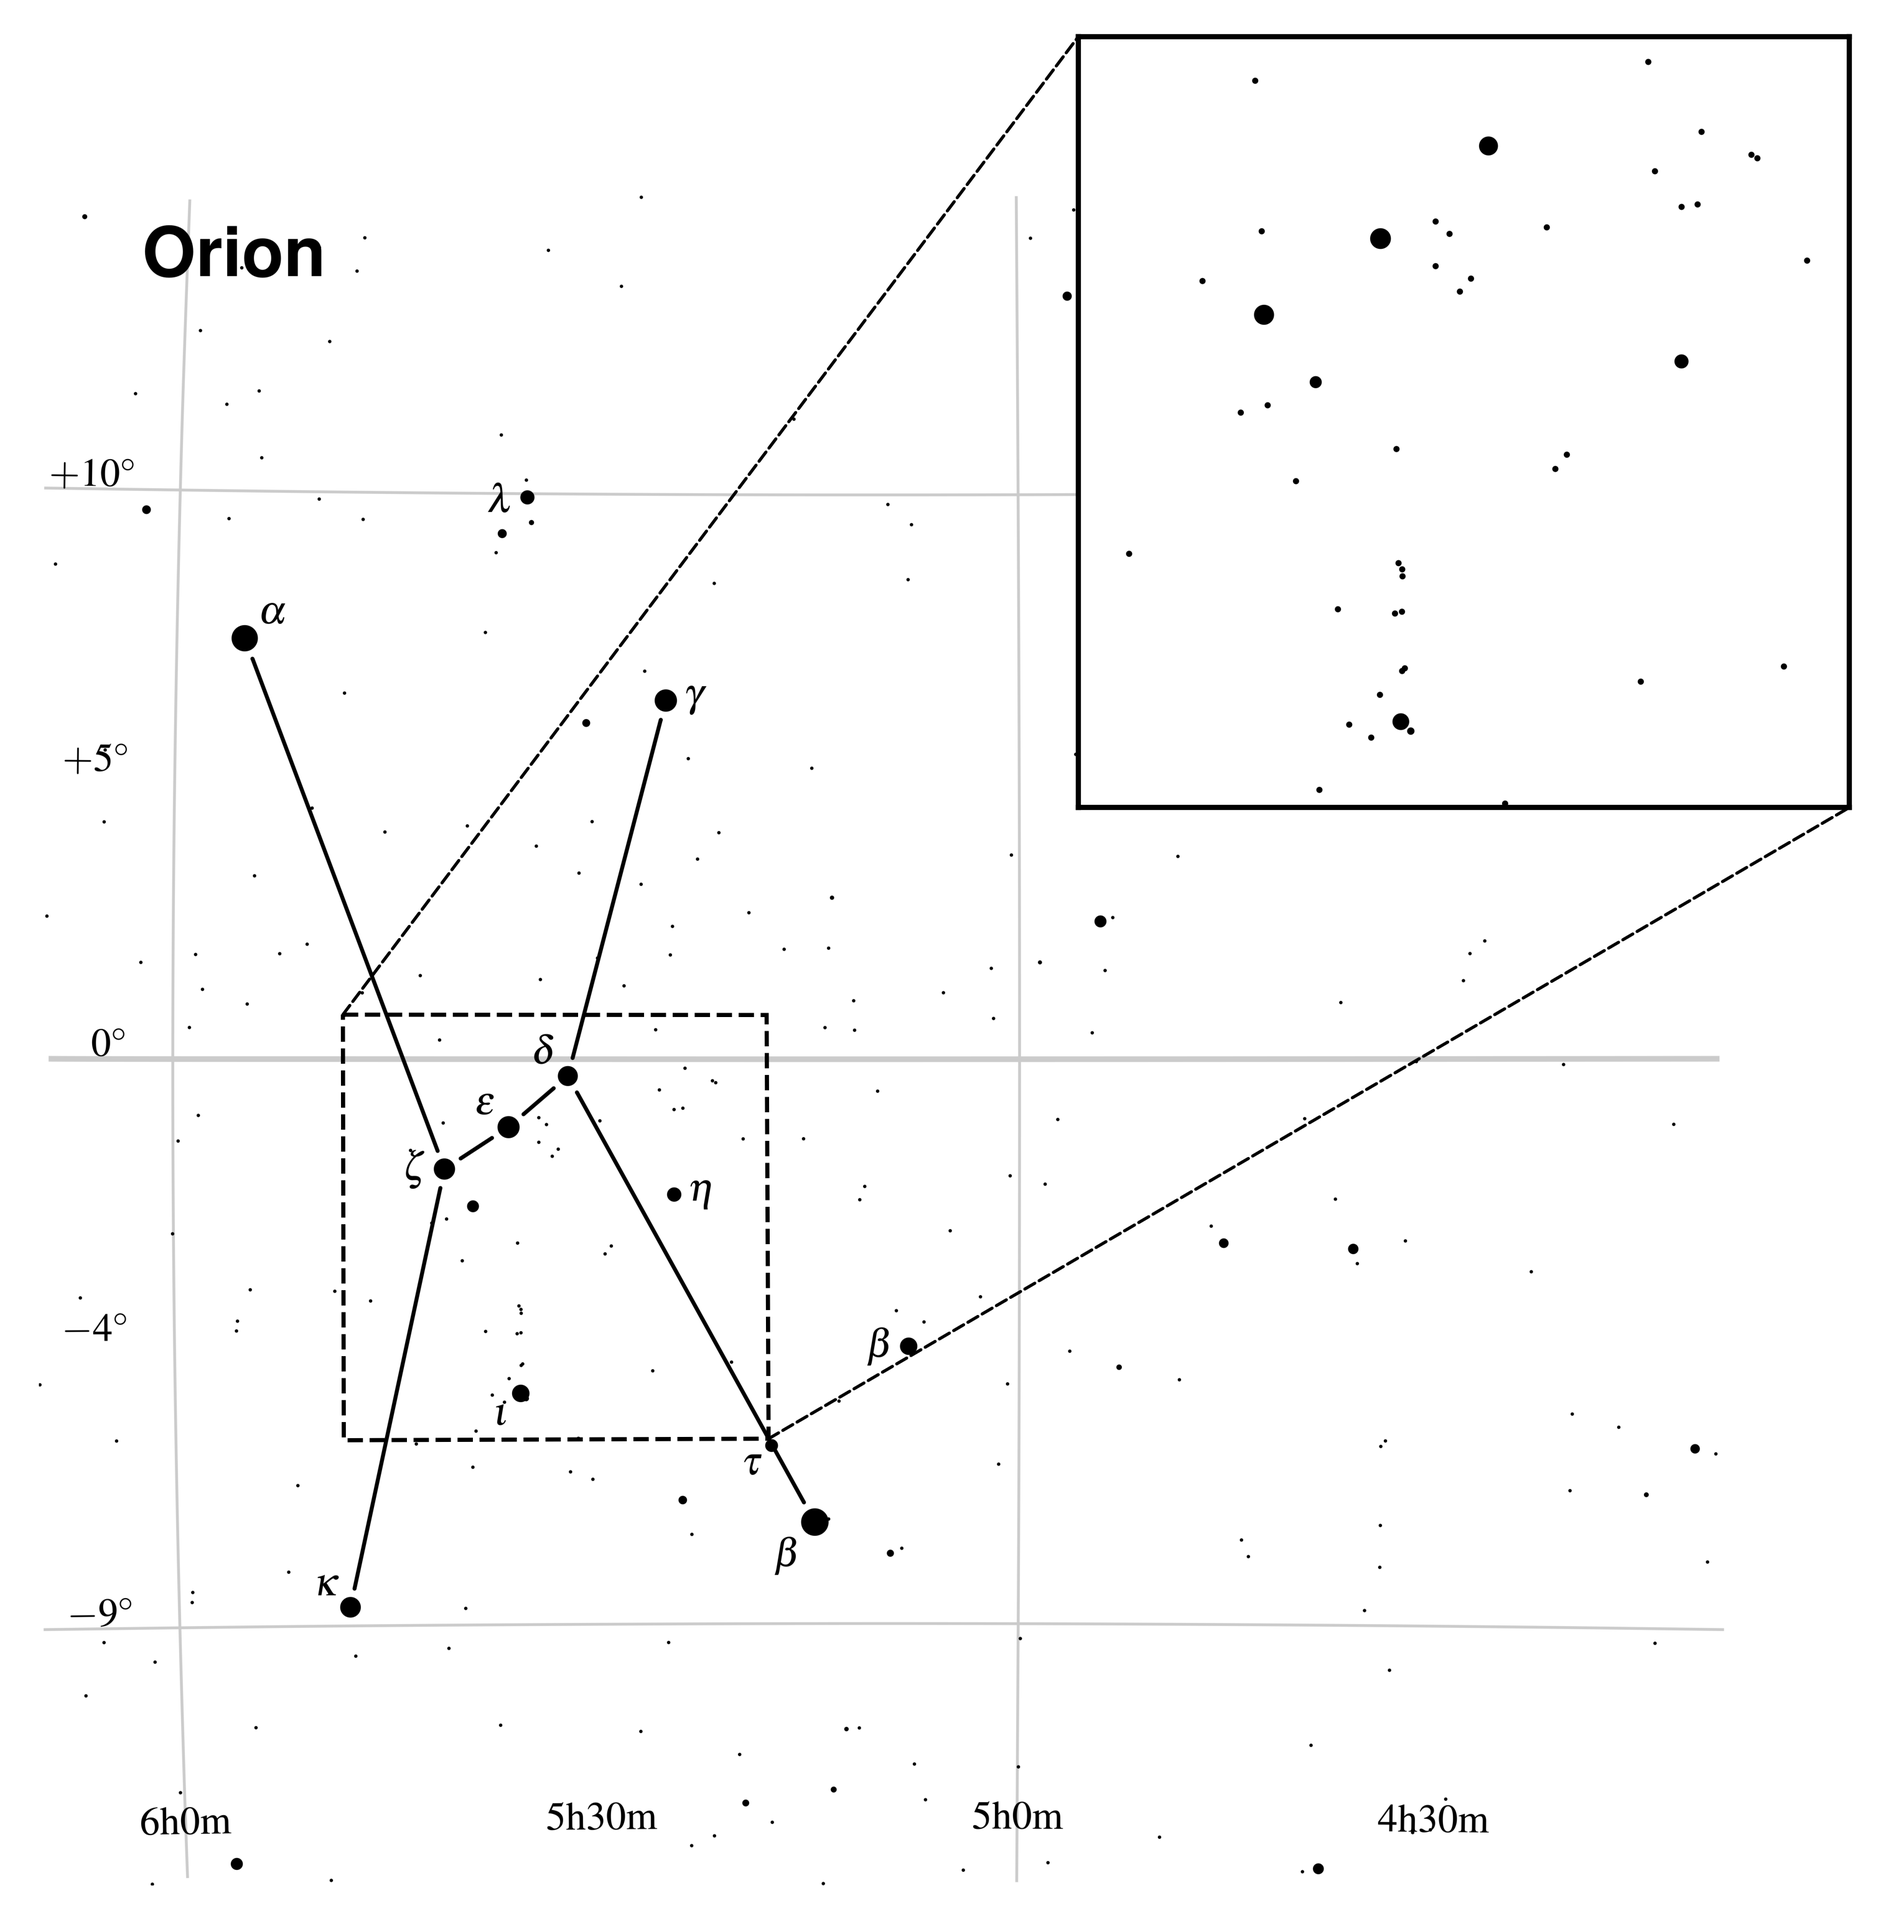
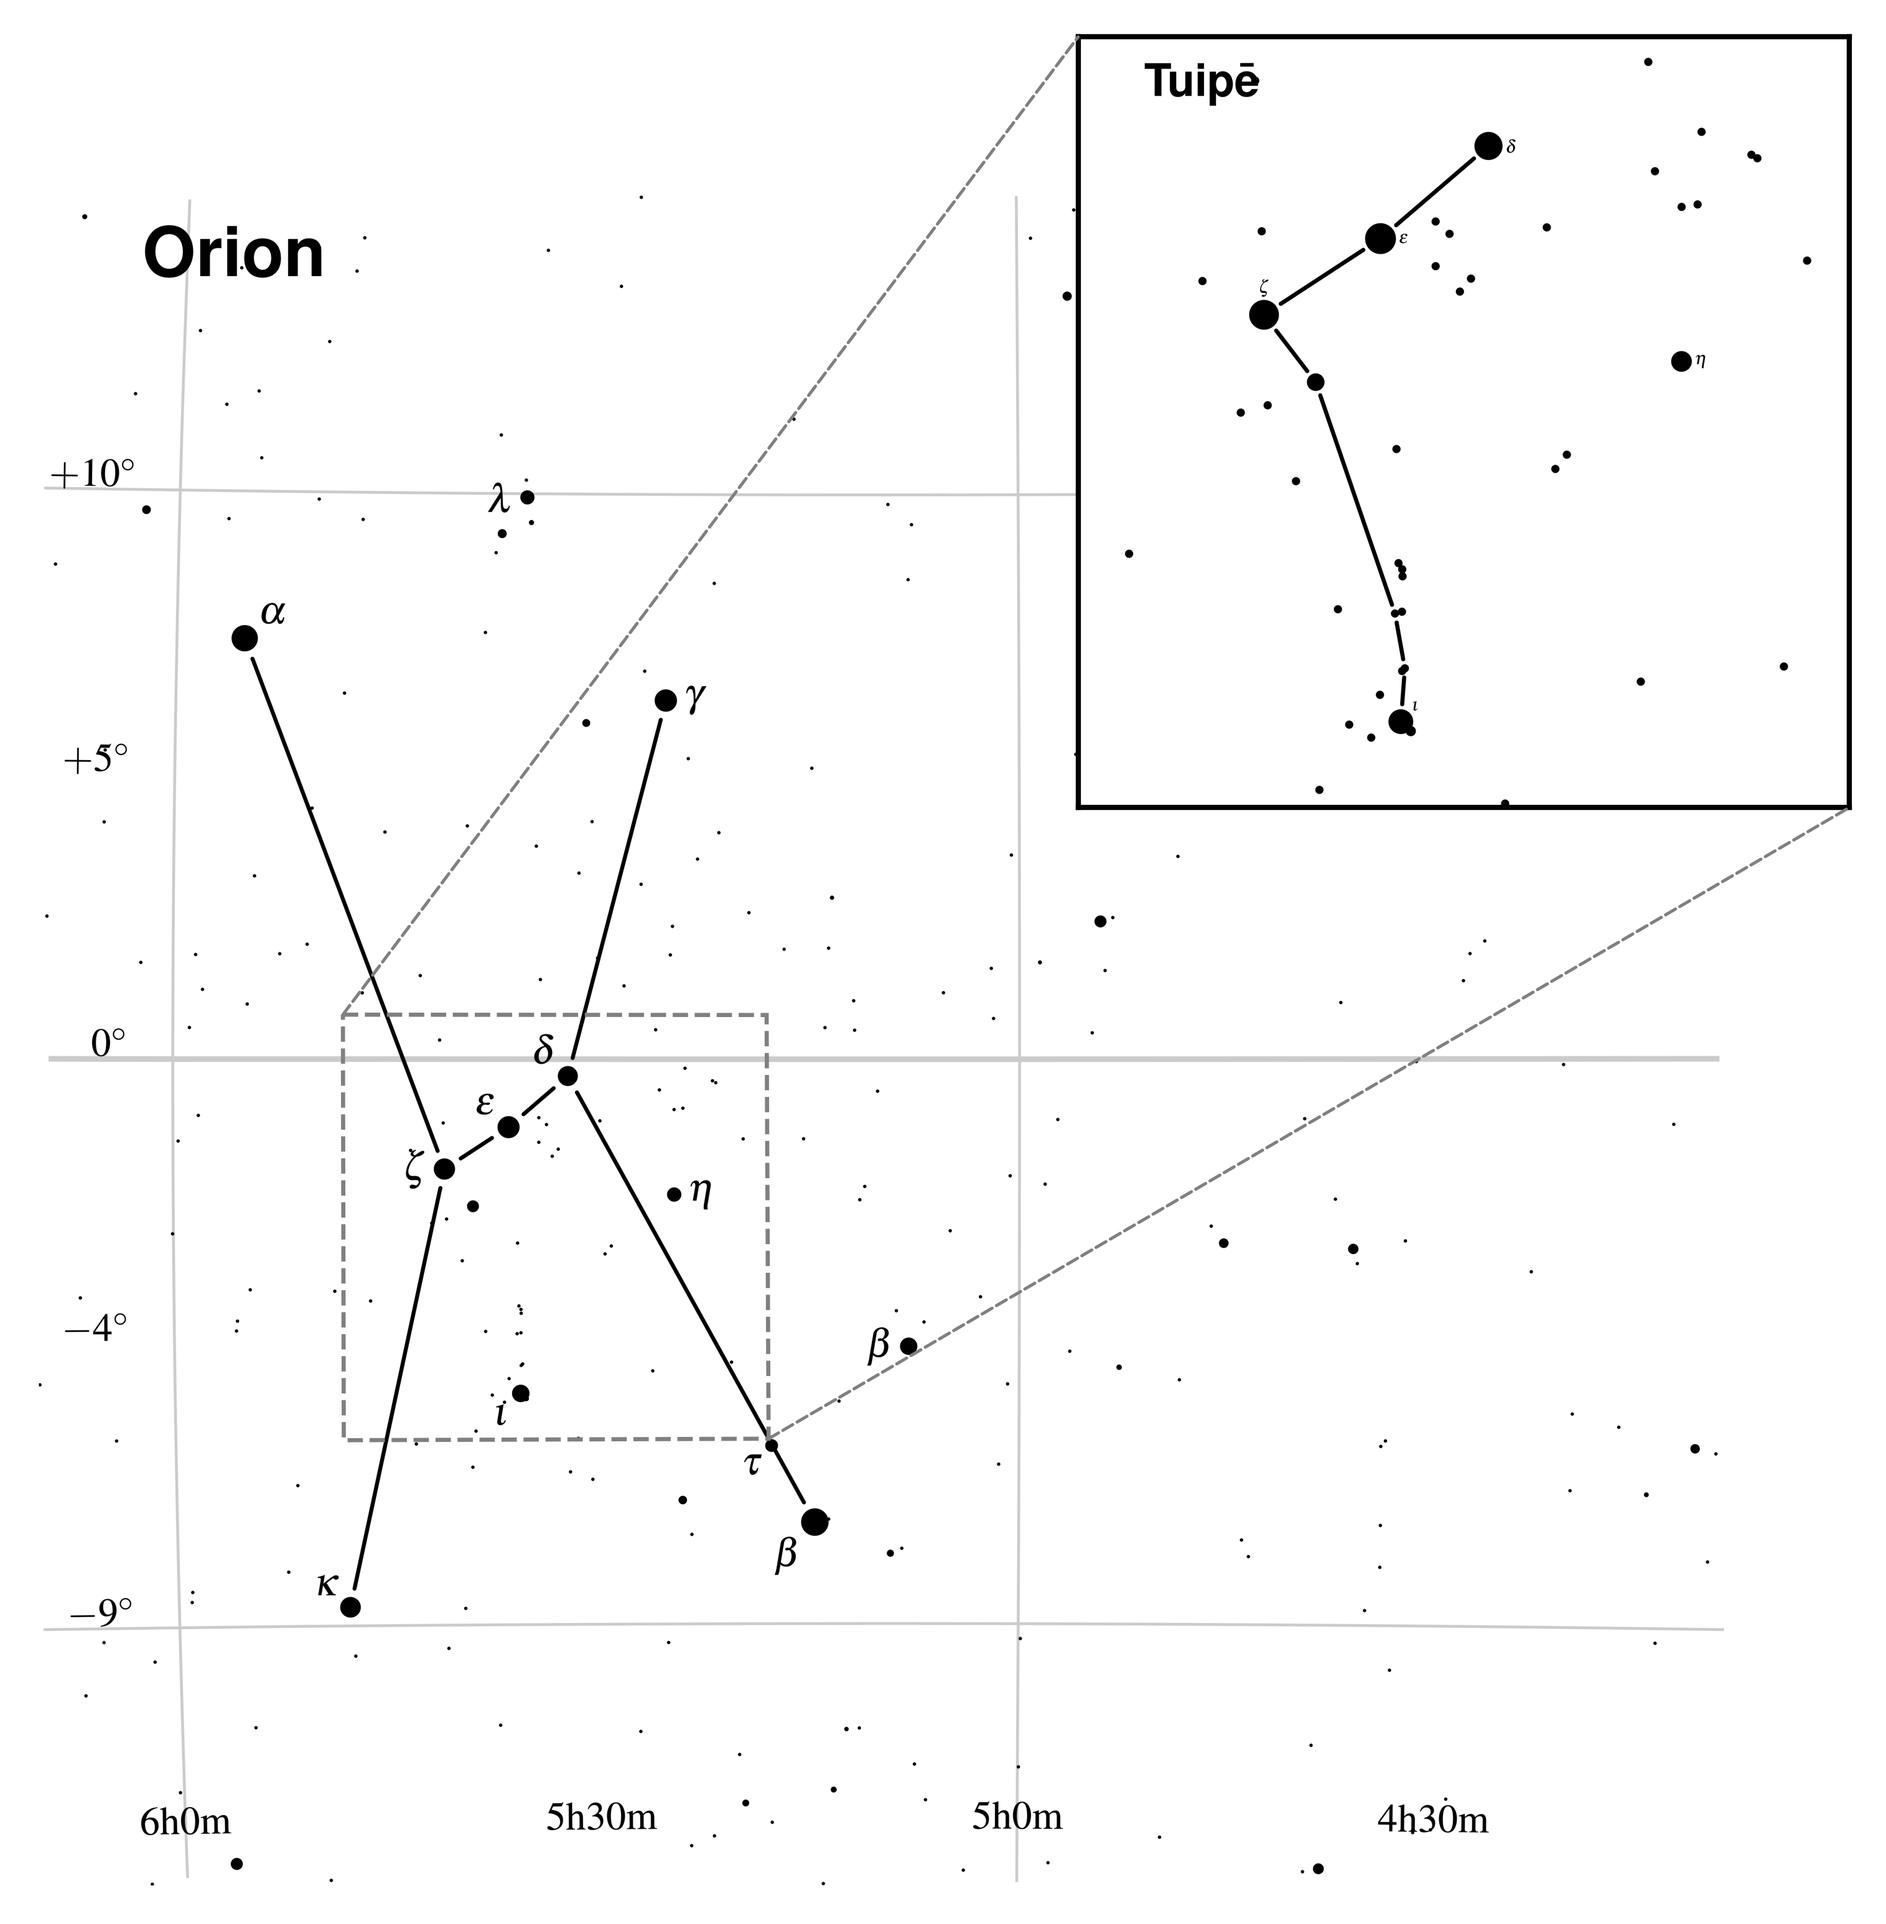
labels: scritp to print label suitable to \Huge for indig consts

diff --git a/scripts/upd_label_coords.py b/scripts/upd_label_coords.py
@@ -1,81 +1,115 @@
-import sys
-import re
 import math
+import re
+import sys
 
-def calculate_top_left_coords(pp3_filename, margin_cm=0.8):
-    # Default values in case they aren't explicitly set in the file
-    ra_center = None
-    dec_center = None
-    box_width = None
-    box_height = None
-    grad_per_cm = None
+
+def calculate_top_left_coords(pp3_filename, margin_cm=None):
+    settings = {}
     text_line_found = None
 
-    # Regex patterns to parse pp3 commands
-    ra_pattern = re.compile(r'^\s*set\s+center_rectascension\s+([\d\.-]+)', re.IGNORECASE)
-    dec_pattern = re.compile(r'^\s*set\s+center_declination\s+([\d\.-]+)', re.IGNORECASE)
-    width_pattern = re.compile(r'^\s*set\s+box_width\s+([\d\.-]+)', re.IGNORECASE)
-    height_pattern = re.compile(r'^\s*set\s+box_height\s+([\d\.-]+)', re.IGNORECASE)
-    grad_pattern = re.compile(r'^\s*set\s+grad_per_cm\s+([\d\.-]+)', re.IGNORECASE)
-    text_pattern = re.compile(r'^\s*text\s+(".+?")\s+at\s+[\d\.-]+\s+[\d\.-]+(.*)', re.IGNORECASE)
+    number = r"[+-]?(?:\d+(?:\.\d*)?|\.\d+)"
 
-    with open(pp3_filename, 'r', encoding='utf-8') as f:
-        for line in f:
-            ra_match = ra_pattern.match(line)
-            if ra_match: ra_center = float(ra_match.group(1))
+    setting_patterns = {
+        "center_rectascension": re.compile(
+            rf"^\s*set\s+center_rectascension\s+({number})", re.IGNORECASE
+        ),
+        "center_declination": re.compile(
+            rf"^\s*set\s+center_declination\s+({number})", re.IGNORECASE
+        ),
+        "box_width": re.compile(
+            rf"^\s*set\s+box_width\s+({number})", re.IGNORECASE
+        ),
+        "box_height": re.compile(
+            rf"^\s*set\s+box_height\s+({number})", re.IGNORECASE
+        ),
+        "grad_per_cm": re.compile(
+            rf"^\s*set\s+grad_per_cm\s+({number})", re.IGNORECASE
+        ),
+    }
 
-            dec_match = dec_pattern.match(line)
-            if dec_match: dec_center = float(dec_match.group(1))
+    text_pattern = re.compile(
+        rf'^\s*text\s+("(?:\\.|[^"\\])*")\s+at\s+'
+        rf"{number}\s+{number}(.*)",
+        re.IGNORECASE,
+    )
 
-            width_match = width_pattern.match(line)
-            if width_match: box_width = float(width_match.group(1))
+    with open(pp3_filename, "r", encoding="utf-8") as file:
+        for line in file:
+            for name, pattern in setting_patterns.items():
+                match = pattern.match(line)
+                if match:
+                    settings[name] = float(match.group(1))
 
-            height_match = height_pattern.match(line)
-            if height_match: box_height = float(height_match.group(1))
+            match = text_pattern.match(line)
+            if match:
+                text_line_found = (match.group(1), match.group(2))
 
-            grad_match = grad_pattern.match(line)
-            if grad_match: grad_per_cm = float(grad_match.group(1))
-
-            text_match = text_pattern.match(line)
-            if text_match:
-                text_content = text_match.group(1)
-                remainder = text_match.group(2)
-                text_line_found = (text_content, remainder)
-
-    # Check that all necessary parameters were found
-    params = {'center_rectascension': ra_center, 'center_declination': dec_center, 
-              'box_width': box_width, 'box_height': box_height, 'grad_per_cm': grad_per_cm}
-    missing = [k for k, v in params.items() if v is None]
+    required = (
+        "center_rectascension",
+        "center_declination",
+        "box_width",
+        "box_height",
+        "grad_per_cm",
+    )
+    missing = [name for name in required if name not in settings]
     if missing:
-        raise ValueError(f"Could not find the following parameter(s) in {pp3_filename}: {', '.join(missing)}")
+        raise ValueError(
+            f"Could not find these settings in {pp3_filename}: "
+            + ", ".join(missing)
+        )
 
-    # Calculate offsets with padding margin
+    ra_center = settings["center_rectascension"]
+    dec_center = settings["center_declination"]
+    box_width = settings["box_width"]
+    box_height = settings["box_height"]
+    grad_per_cm = settings["grad_per_cm"]
+
+    if text_line_found:
+        text_str, remainder = text_line_found
+        is_huge = re.search(r"\\+Huge\b", text_str, re.IGNORECASE) is not None
+    else:
+        text_str = r'"\\Huge\\bfseries Title"'
+        remainder = " color 0 0 0 ;"
+        is_huge = True
+
+    # Use a larger inset for Huge labels; pass a margin to override it.
+    if margin_cm is None:
+        margin_cm = 1.3 if is_huge else 0.8
+
     half_height_deg = (box_height / 2.0 - margin_cm) * grad_per_cm
     half_width_deg = (box_width / 2.0 - margin_cm) * grad_per_cm
 
-    # Top Declination
+    if half_height_deg <= 0 or half_width_deg <= 0:
+        raise ValueError("The margin is too large for this chart.")
+
     dec_top = dec_center + half_height_deg
 
-    # Left Right Ascension
-    # Note: In celestial coordinates, RA increases toward the EAST (left side of standard sky maps)
-    ra_left = ra_center + (half_width_deg / (15.0 * math.cos(math.radians(dec_center))))
+    cos_dec = math.cos(math.radians(dec_center))
+    if abs(cos_dec) < 1e-8:
+        raise ValueError("Cannot calculate the RA offset near a celestial pole.")
 
-    # Output result
-    print("\n--- Calculated Coordinates ---")
-    print(f"Top-Left Target RA  : {ra_left:.4f} hours")
-    print(f"Top-Left Target Dec : {dec_top:.4f} degrees\n")
+    ra_left = (
+        ra_center
+        + half_width_deg / (15.0 * cos_dec)
+    ) % 24.0
 
-    if text_line_found:
-        text_str, rest = text_line_found
-        updated_line = f"text {text_str} at {ra_left:.4f} {dec_top:.4f}{rest}"
-        print("--- Updated pp3 Line ---")
-        print(updated_line)
-    else:
-        print("--- Generated pp3 Line ---")
-        print(f'text "\\Large\\bfseries Title" at {ra_left:.4f} {dec_top:.4f} color 0 0 0 ;')
+    updated_line = f"text {text_str} at {ra_left:.4f} {dec_top:.4f}{remainder}"
+
+    print(f"\nMargin used: {margin_cm:.2f} cm")
+    print(f"Top-left target RA : {ra_left:.4f} hours")
+    print(f"Top-left target Dec: {dec_top:.4f} degrees")
+    print("\n--- Updated PP3 line ---")
+    print(updated_line)
+
 
 if __name__ == "__main__":
     if len(sys.argv) < 2:
-        print("Usage: python update_pp3_text.py <path_to_pp3_file>")
-    else:
-        calculate_top_left_coords(sys.argv[1])
+        print(
+            "Usage: python update_pp3_text.py "
+            "<path_to_pp3_file> [margin_cm]"
+        )
+        raise SystemExit(1)
+
+    filename = sys.argv[1]
+    margin = float(sys.argv[2]) if len(sys.argv) > 2 else None
+    calculate_top_left_coords(filename, margin)

diff --git a/scripts/plotter.py b/scripts/plotter.py
@@ -176,7 +176,7 @@ def generate_zoom_plot(
         points,
         closed=True,
         fill=False,
-        edgecolor="black",
+        edgecolor="gray",
         linewidth=0.8,
         linestyle="--",
     )
@@ -203,7 +203,7 @@ def generate_zoom_plot(
             xyB=inset_point,
             coordsB=ax_inset.transAxes,
             linestyle="--",
-            color="black",
+            color="gray",
             linewidth=0.6,
         )
         fig.add_artist(connector)
